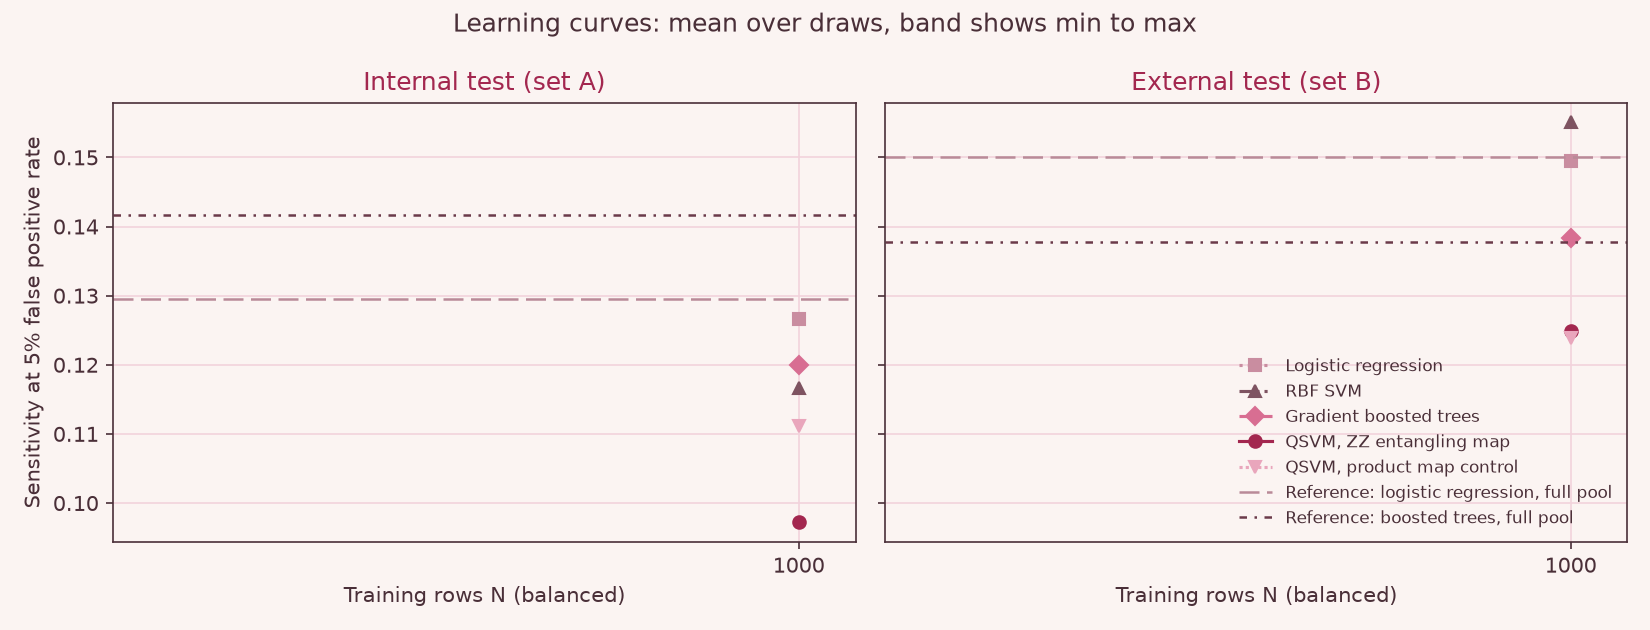
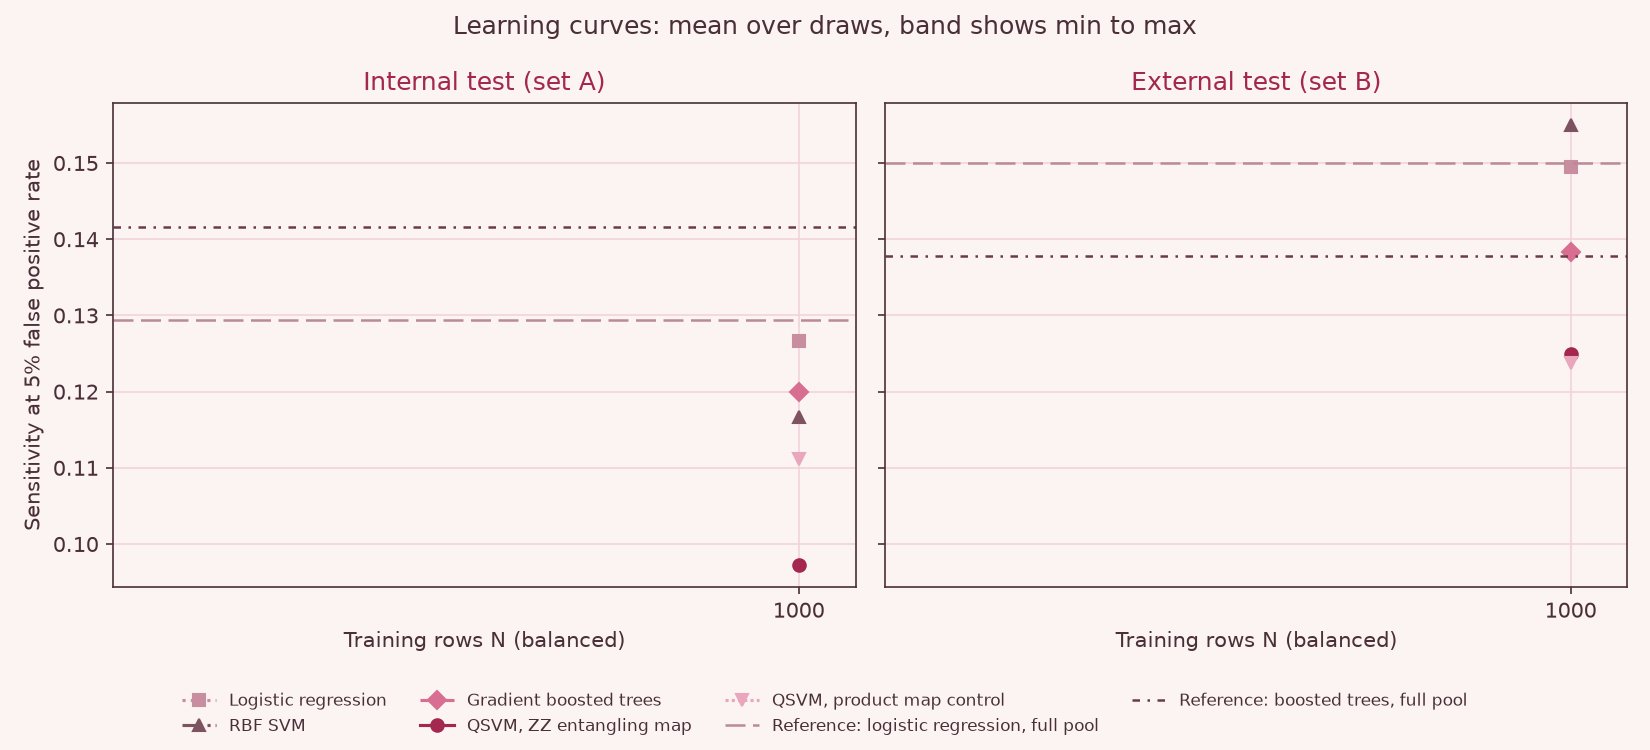
Place the learning curve legend below both panels

diff --git a/src/sepsis6q/plots.py b/src/sepsis6q/plots.py
@@ -34,7 +34,7 @@ def _theme():
 def learning_curves(out):
     m = pd.read_csv(out / "metrics_runs.csv")
     ref = pd.read_csv(out / "reference_metrics.csv") if (out / "reference_metrics.csv").exists() else None
-    fig, axes = plt.subplots(1, 2, figsize=(11, 4.2), sharey=True)
+    fig, axes = plt.subplots(1, 2, figsize=(11, 5.0), sharey=True)
     for ax, set_name in zip(axes, ["test_A", "test_B"]):
         d = m[m["set"] == set_name]
         for model, st in STYLE.items():
@@ -55,9 +55,10 @@ def learning_curves(out):
         ax.set_title(SET_TITLE[set_name], color=ROSE)
         ax.set_xlabel("Training rows N (balanced)")
     axes[0].set_ylabel("Sensitivity at 5% false positive rate")
-    axes[1].legend(loc="lower right", fontsize=8)
+    handles, labels = axes[0].get_legend_handles_labels()
+    fig.legend(handles, labels, loc="lower center", ncol=4, fontsize=8)
     fig.suptitle("Learning curves: mean over draws, band shows min to max", color=INK)
-    fig.tight_layout()
+    fig.tight_layout(rect=(0, 0.1, 1, 1))
     fig.savefig(out / "learning_curves.png", dpi=150)
     plt.close(fig)
 
